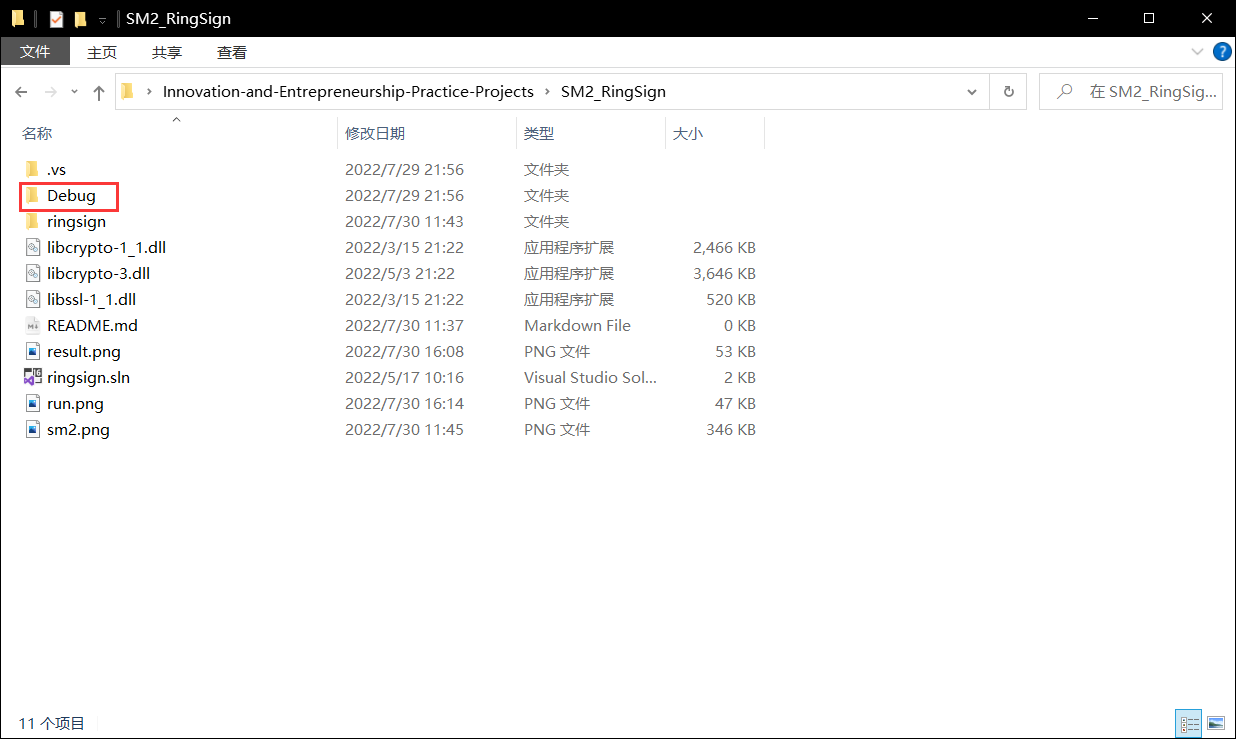
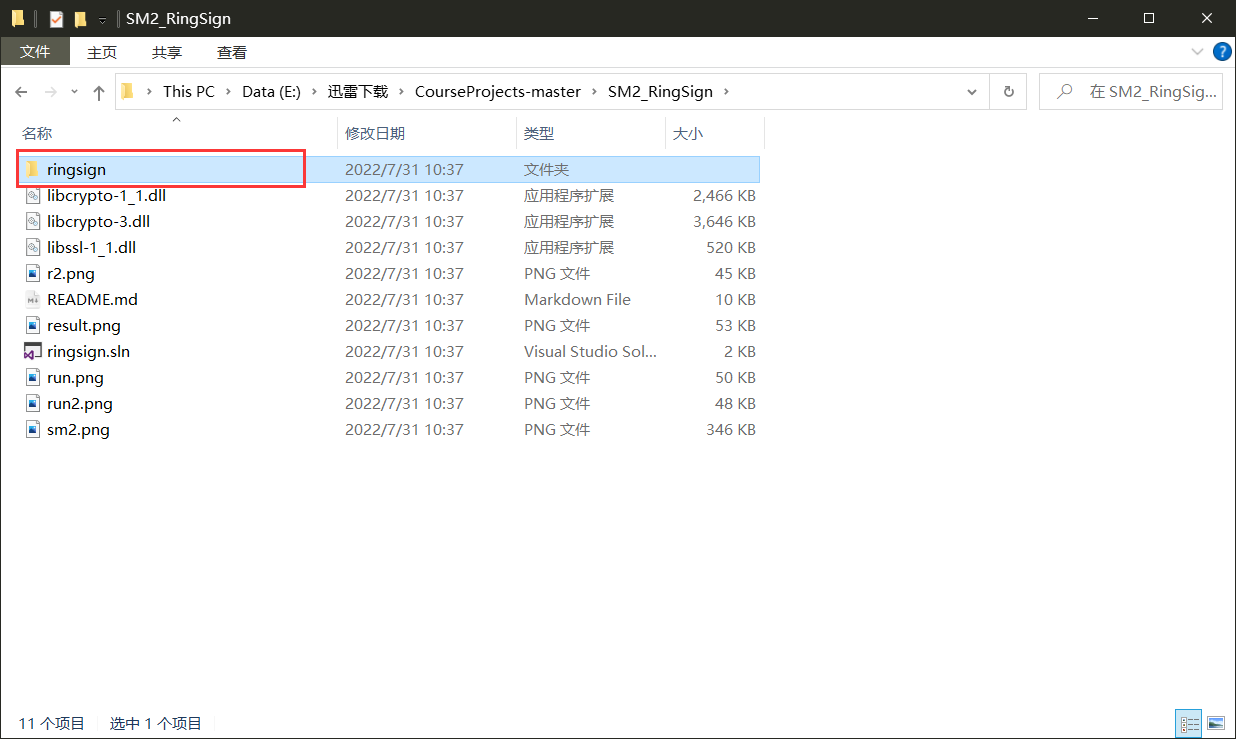
22-07-31 update

diff --git a/SM3_optimization/源.cpp b/SM3_optimization/源.cpp
@@ -12,7 +12,7 @@ int main()
 	init();
 	SM3_CTX ctx;
 	start = clock();
-	FOR(i,0,1000000)
+	FOR(i,0,10000)
 	sm3(&ctx, msg, 64, dst);
 	end = clock();
 	for (int i = 0; i < 32; ++i)printf("%02x", dst[i]);

diff --git a/SM2_RingSign/README.md b/SM2_RingSign/README.md
@@ -309,20 +309,20 @@ print('run time of verify:%fs'% t2)
 
 #### 运行指导
 
-在该项目文件夹SM2_RignSign下，进入Debug子文件夹。
+为了进行运行测试，我从github上将项目下载到本地进行了测试。由于git上传时会忽略掉一些文件，导致原vs项目中的Debug文件夹没有上传，因此将必须的脚本和可执行程序放在了ringsign文件夹中。
 
-![image-20220730161433008](./run.png)
+在该项目文件夹SM2_RignSign下，进入ringsign子文件夹。
+
+<img src="./run.png" alt="image-20220731104013090" style="zoom:80%;" />
 
 可以看到前面编写的测试脚本。
 
-![image-20220730161453447](./run2.png)
+<img src="./run2.png" alt="image-20220731104103608" style="zoom: 80%;" />
 
 在该文件夹下，进入cmd，执行python脚本即可出现运行结果。
 
-![image-20220730161645087](./r2.png)
+<img src="./r2.png" alt="image-20220731104328179" style="zoom:80%;" />
 
-![image-20220730160822812](./result.png)
+由于使用了测试脚本来进行命令行传参，整个过程不需要进入visual studio项目，也不需要进行编译连接。并且由于命令行传参的特性，不能直接在vs工程项目中执行代码，会出现错误。如果想手动运行程序需要在命令行输入大量复杂的参数，为了方便测试，选择使用python脚本来自动化地实现这个过程。
 
-由于使用了测试脚本来进行命令行传参，整个过程不需要进入visual studio项目，也不需要进行编译连接。并且由于命令行传参的特性，不能在vs工程项目中执行代码，会出现错误。
-
-因此只需要按照前面的指导运行python脚本，调用经过的测试的功能正常的可执行程序。
+因此只需要按照前面的指导运行python脚本，调用打包好的可执行程序。

diff --git a/SM2_with_RFC6979/README.md b/SM2_with_RFC6979/README.md
@@ -175,6 +175,8 @@ n = 0x8542D69E4C044F18E8B92435BF6FF7DD297720630485628D5AE74EE7C32E79B7
 
 最终签名及验证结果见下图：
 
+其中从上到下每行的意义是：私钥，生成的k，原始消息，签名值r，签名值s，验证结果。
+
 ![image-20220719211323572](./result.png)
 
 ##### 运行指导

diff --git a/SM3_optimization/README.md b/SM3_optimization/README.md
@@ -99,3 +99,6 @@ $Func(H,A,B,C,D,E,F,G)$
 ![image-20220728112932754](./runguide.png)
 
 其中项目默认可能是64位模式，如果不能运行，将上图位置改成x86，即32位模式。
+
+为了提高输出结果的速度，最终将测试次数降低至10000次，时间缩短了100倍。
+
